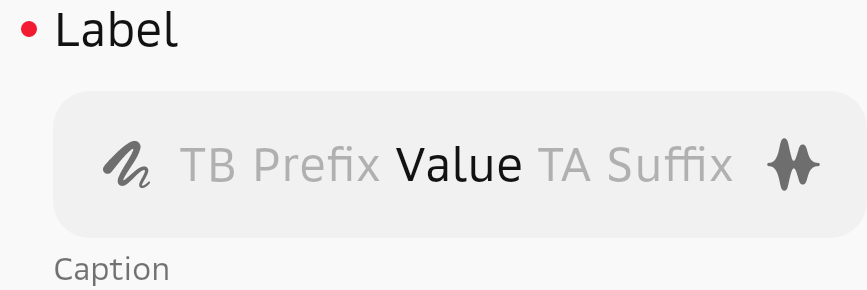
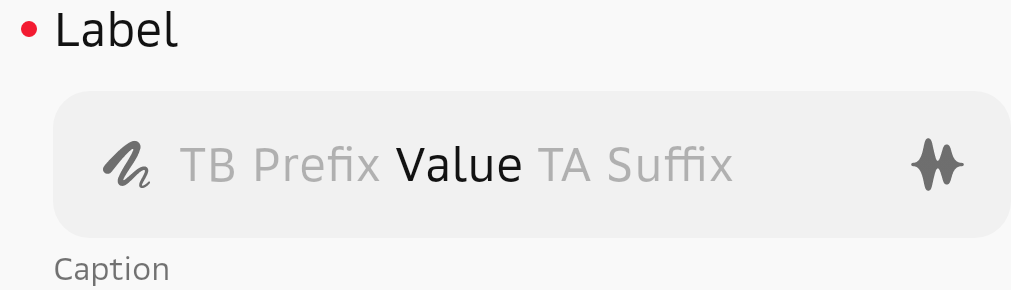
feat(sdds-acore/uikit-compose): prefix and suffix for placeholder were added (#282)

diff --git a/sdds-core/uikit-compose/src/main/kotlin/com/sdds/compose/uikit/internal/textfield/BaseTextField.kt b/sdds-core/uikit-compose/src/main/kotlin/com/sdds/compose/uikit/internal/textfield/BaseTextField.kt
@@ -43,6 +43,7 @@ import androidx.compose.ui.layout.MeasureScope
 import androidx.compose.ui.layout.layoutId
 import androidx.compose.ui.platform.LocalLayoutDirection
 import androidx.compose.ui.platform.testTag
+import androidx.compose.ui.text.AnnotatedString
 import androidx.compose.ui.text.TextStyle
 import androidx.compose.ui.text.input.TextFieldValue
 import androidx.compose.ui.text.input.VisualTransformation
@@ -73,7 +74,6 @@ import com.sdds.compose.uikit.internal.focusselector.LocalFocusSelectorMode
 import com.sdds.compose.uikit.internal.focusselector.applyFocusSelector
 import com.sdds.compose.uikit.internal.heightOrZero
 import com.sdds.compose.uikit.internal.widthOrZero
-import com.sdds.compose.uikit.prefixSuffixTransformation
 import com.sdds.compose.uikit.scrollbar
 
 /**
@@ -179,19 +179,27 @@ internal fun BaseTextField(
     val finalOptionalText =
         if (labelPlacement == LabelPlacement.None) "" else optionalText
 
-    val innerVisualTransformation = remember(
-        prefix,
-        suffix,
-        visualTransformation,
-        prefixStyle,
-        suffixStyle,
-    ) {
-        if (prefix.isNullOrEmpty() && suffix.isNullOrEmpty()) {
-            visualTransformation
-        } else {
-            prefixSuffixTransformation(prefix, suffix, prefixStyle, suffixStyle)
-        }
+    val valuePrefixSuffixTransformation = rememberPrefixSuffixTransformation(
+        prefix = prefix,
+        suffix = suffix,
+        prefixTextStyle = prefixStyle,
+        suffixTextStyle = suffixStyle,
+        transparent = value.text.isEmpty(),
+    )
+    // TODO: https://github.com/salute-developers/plasma-android/issues/284
+    val valueTransformation = if (prefix.isNullOrEmpty() && suffix.isNullOrEmpty()) {
+        visualTransformation
+    } else {
+        valuePrefixSuffixTransformation
     }
+    val placeholderPrefixSuffixTransformation = rememberPrefixSuffixTransformation(
+        prefix = prefix,
+        suffix = suffix,
+        prefixTextStyle = prefixStyle,
+        suffixTextStyle = suffixStyle,
+        transparent = value.text.isNotEmpty(),
+    )
+
     var isComponentFocused by remember { mutableStateOf(false) }
 
     /**
@@ -245,7 +253,7 @@ internal fun BaseTextField(
         keyboardOptions = keyboardOptions,
         keyboardActions = keyboardActions,
         singleLine = singleLine,
-        visualTransformation = innerVisualTransformation,
+        visualTransformation = valueTransformation,
         interactionSource = innerInteractionSource,
         cursorBrush = SolidColor(
             colors.cursorColor(readOnly).colorForInteraction(interactionSource),
@@ -331,7 +339,7 @@ internal fun BaseTextField(
                             ),
                         value = value.text,
                         innerTextField = it,
-                        visualTransformation = innerVisualTransformation,
+                        visualTransformation = visualTransformation,
                         interactionSource = innerInteractionSource,
                         innerLabel = innerLabel(
                             label = finalLabelText,
@@ -352,7 +360,11 @@ internal fun BaseTextField(
                             innerOptionalStyle = optionalStyle,
                             hasChips = chipsContent != null,
                         ),
-                        placeholder = placeholder(placeholderText, placeholderStyle),
+                        placeholder = placeholder(
+                            placeholderText,
+                            placeholderStyle,
+                            placeholderPrefixSuffixTransformation,
+                        ),
                         startIcon = icon(
                             startContent,
                             colors
@@ -648,11 +660,15 @@ private fun outerLabelIndicatorAlignment(fieldType: FieldType): Alignment {
 private fun placeholder(
     placeholder: String?,
     textStyle: TextStyle,
+    visualTransformation: VisualTransformation,
 ): @Composable (() -> Unit)? {
-    if (placeholder == null) return null
+    if (placeholder.isNullOrEmpty() && visualTransformation == VisualTransformation.None) return null
     return {
+        val annotatedPlaceholder = visualTransformation
+            .filter(AnnotatedString(placeholder.orEmpty()))
+            .text
         Text(
-            text = placeholder,
+            text = annotatedPlaceholder,
             style = textStyle,
         )
     }

diff --git a/sdds-core/uikit-compose/src/main/kotlin/com/sdds/compose/uikit/internal/textfield/PrefixSuffixTransformation.kt b/sdds-core/uikit-compose/src/main/kotlin/com/sdds/compose/uikit/internal/textfield/PrefixSuffixTransformation.kt
@@ -1,5 +1,8 @@
 package com.sdds.compose.uikit.internal.textfield
 
+import androidx.compose.runtime.Composable
+import androidx.compose.runtime.remember
+import androidx.compose.ui.graphics.Color
 import androidx.compose.ui.text.AnnotatedString
 import androidx.compose.ui.text.TextStyle
 import androidx.compose.ui.text.input.OffsetMapping
@@ -11,20 +14,34 @@ internal class PrefixSuffixTransformation(
     suffix: String = "",
     prefixTextStyle: TextStyle = TextStyle(),
     suffixTextStyle: TextStyle = TextStyle(),
+    transparent: Boolean = false,
 ) : VisualTransformation {
 
     private val prefixWithWhiteSpace = if (prefix.isNotEmpty()) "$prefix " else ""
-    private val suffixWithWhiteSpace = if (suffix.isNotEmpty())" $suffix" else ""
+    private val suffixWithWhiteSpace = if (suffix.isNotEmpty()) " $suffix" else ""
+
+    private val prefixSpanStyle = if (transparent) {
+        prefixTextStyle.copy(color = Color.Transparent)
+    } else {
+        prefixTextStyle
+    }.toSpanStyle()
+
+    private val suffixSpanStyle = if (transparent) {
+        suffixTextStyle.copy(color = Color.Transparent)
+    } else {
+        suffixTextStyle
+    }.toSpanStyle()
 
     private val prefixAnnotated = AnnotatedString(
         text = prefixWithWhiteSpace,
-        spanStyle = prefixTextStyle.toSpanStyle(),
+        spanStyle = prefixSpanStyle,
     )
 
     private val suffixAnnotated = AnnotatedString(
         text = suffixWithWhiteSpace,
-        spanStyle = suffixTextStyle.toSpanStyle(),
+        spanStyle = suffixSpanStyle,
     )
+
     override fun filter(text: AnnotatedString): TransformedText {
         val result = prefixAnnotated + text + suffixAnnotated
 
@@ -41,5 +58,48 @@ internal class PrefixSuffixTransformation(
         }
 
         return TransformedText(result, textWithPrefixSuffixMapping)
+    }
+}
+
+internal fun prefixSuffixTransformation(
+    prefix: String? = null,
+    suffix: String? = null,
+    prefixTextStyle: TextStyle = TextStyle(),
+    suffixTextStyle: TextStyle = TextStyle(),
+    transparent: Boolean = false,
+): VisualTransformation = if (prefix.isNullOrEmpty() && suffix.isNullOrEmpty()) {
+    VisualTransformation.None
+} else {
+    PrefixSuffixTransformation(
+        prefix = prefix.orEmpty(),
+        suffix = suffix.orEmpty(),
+        prefixTextStyle = prefixTextStyle,
+        suffixTextStyle = suffixTextStyle,
+        transparent = transparent,
+    )
+}
+
+@Composable
+internal fun rememberPrefixSuffixTransformation(
+    prefix: String? = null,
+    suffix: String? = null,
+    prefixTextStyle: TextStyle = TextStyle(),
+    suffixTextStyle: TextStyle = TextStyle(),
+    transparent: Boolean = false,
+): VisualTransformation {
+    return remember(
+        prefix,
+        suffix,
+        prefixTextStyle,
+        suffixTextStyle,
+        transparent,
+    ) {
+        prefixSuffixTransformation(
+            prefix = prefix,
+            suffix = suffix,
+            prefixTextStyle = prefixTextStyle,
+            suffixTextStyle = suffixTextStyle,
+            transparent = transparent,
+        )
     }
 }

diff --git a/sdds-core/uikit-compose/src/main/kotlin/com/sdds/compose/uikit/TextField.kt b/sdds-core/uikit-compose/src/main/kotlin/com/sdds/compose/uikit/TextField.kt
@@ -378,6 +378,7 @@ object TextAreaClear
  * @param prefixTextStyle стиль [prefix]
  * @param suffixTextStyle стиль [suffix]
  */
+@Deprecated("Для внутреннего использования")
 fun prefixSuffixTransformation(
     prefix: String? = null,
     suffix: String? = null,
